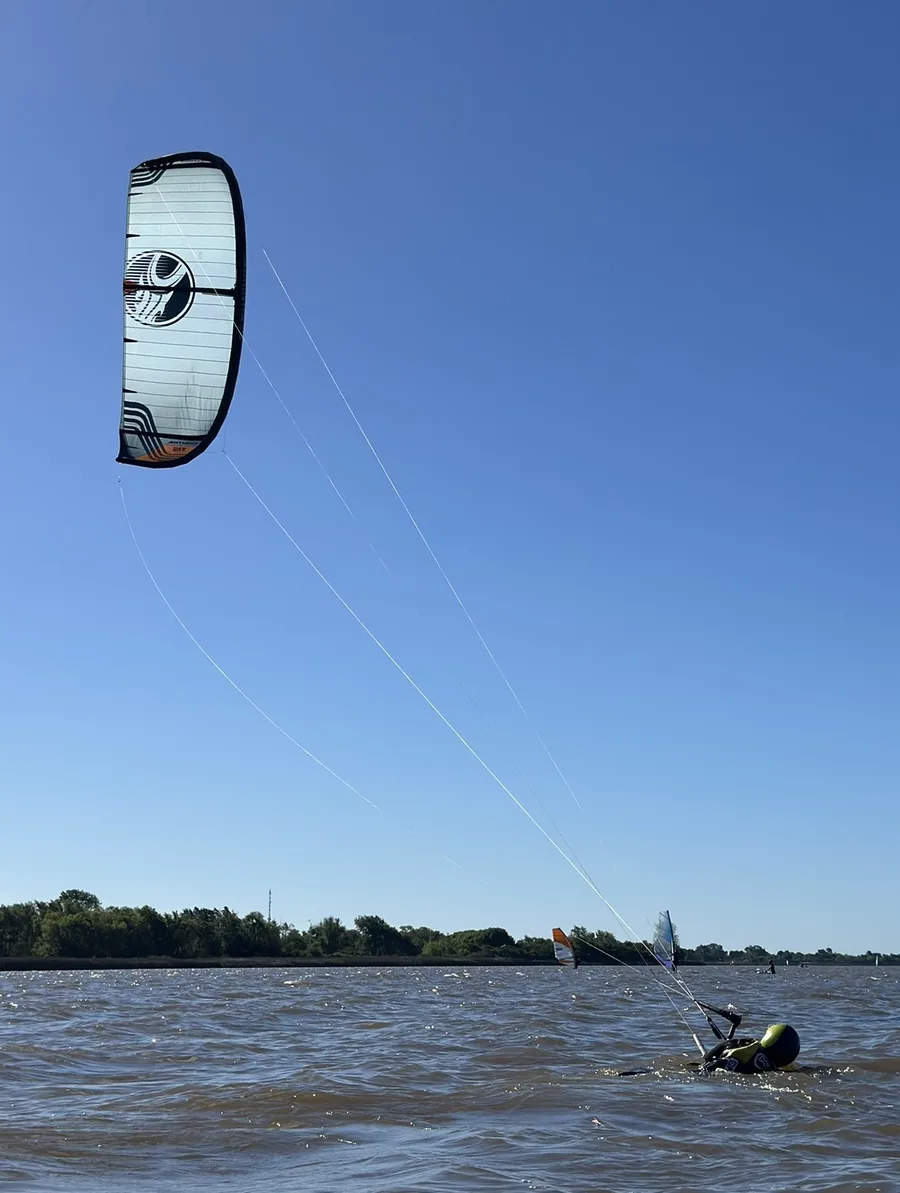
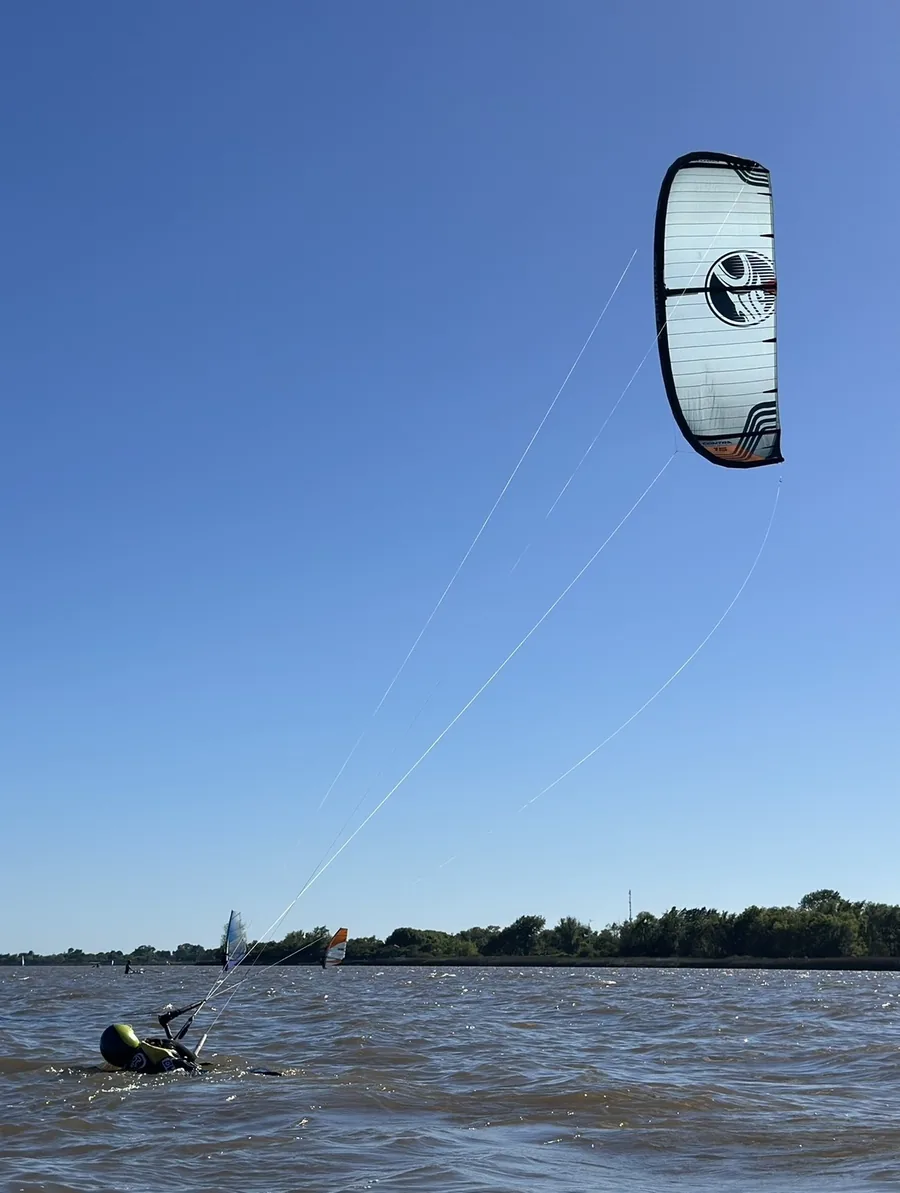
feat(kitesurf): flip Nivel 2 image horizontally so kite is positioned on the right

diff --git a/kitesurf/index.html b/kitesurf/index.html
@@ -513,9 +513,9 @@
             <div class="level-panel" id="levelPanel2" role="region" aria-labelledby="levelBtn2" aria-hidden="true">
               <div class="level-panel-media">
                 <picture>
-                  <source media="(max-width: 768px)" srcset="../assets/nivel-2-mobile.webp?v=3" type="image/webp">
-                  <source srcset="../assets/nivel-2.webp?v=3" type="image/webp">
-                  <img src="../assets/nivel-2.webp?v=3" alt="Nivel 2: Body drag y waterstart en el agua" class="level-panel-img" loading="lazy" width="900" height="720">
+                  <source media="(max-width: 768px)" srcset="../assets/nivel-2-mobile.webp?v=4" type="image/webp">
+                  <source srcset="../assets/nivel-2.webp?v=4" type="image/webp">
+                  <img src="../assets/nivel-2.webp?v=4" alt="Nivel 2: Body drag y waterstart en el agua" class="level-panel-img" loading="lazy" width="900" height="720">
                 </picture>
                 <span class="level-media-badge">02</span>
                 <button type="button" class="level-close-btn" aria-label="Cerrar Nivel 02">
@@ -1841,6 +1841,6 @@
   <!-- Scripts Oficiales de la Home y de Deportes -->
   <script src="../main.js?v=2"></script>
   <script src="../sports.js?v=9.7"></script>
-  <!-- build v9.3.5-scrolly-stateful-observer -->
+  <!-- build v9.3.6-nivel2-flopped -->
 </body>
 </html>
